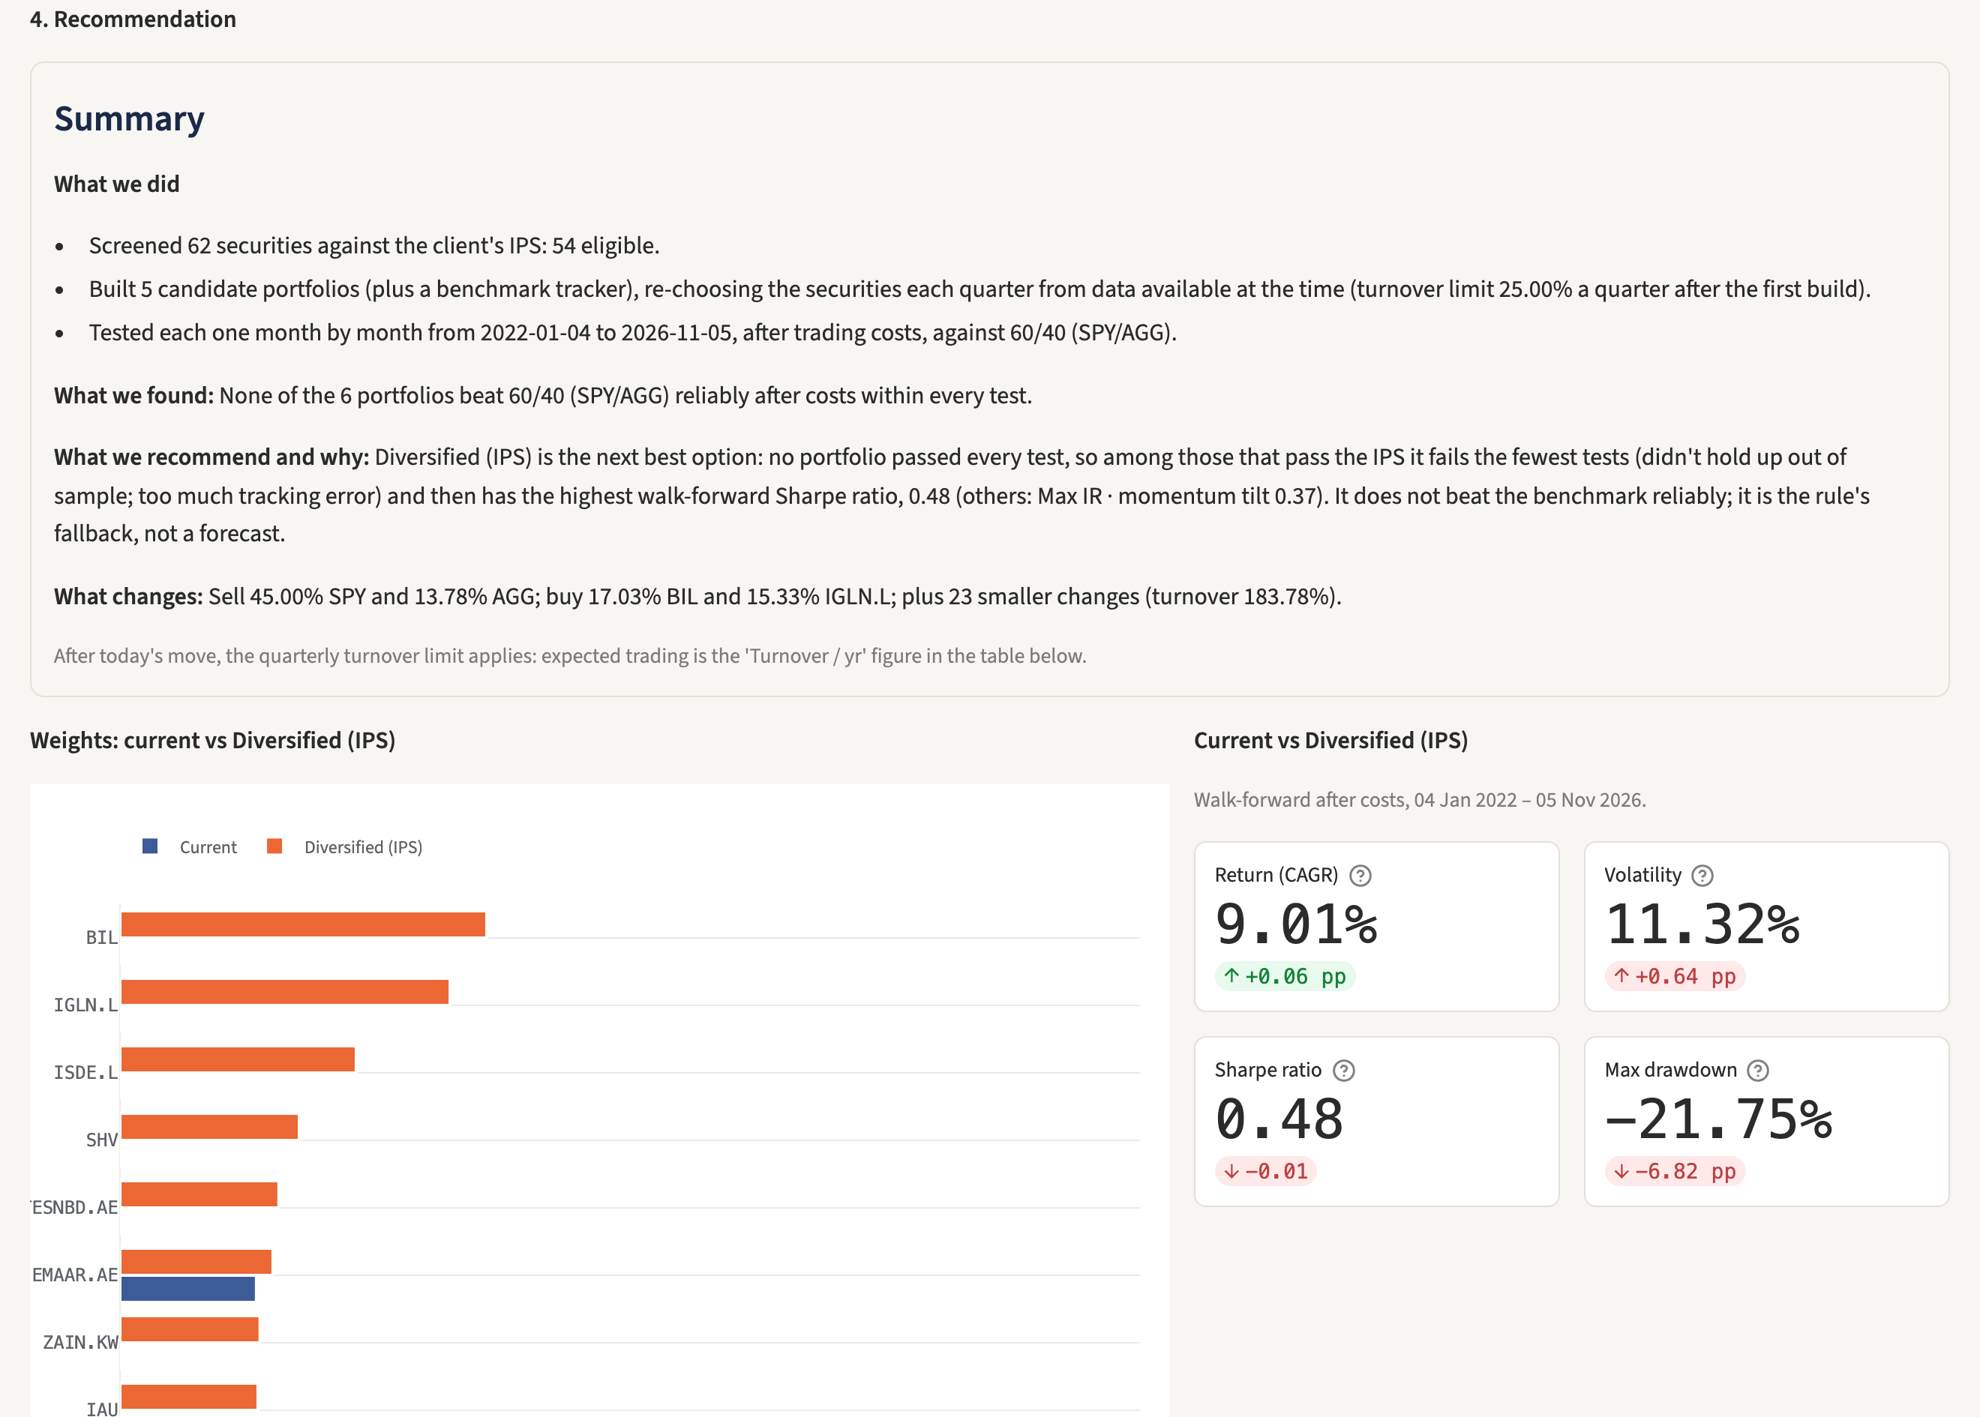
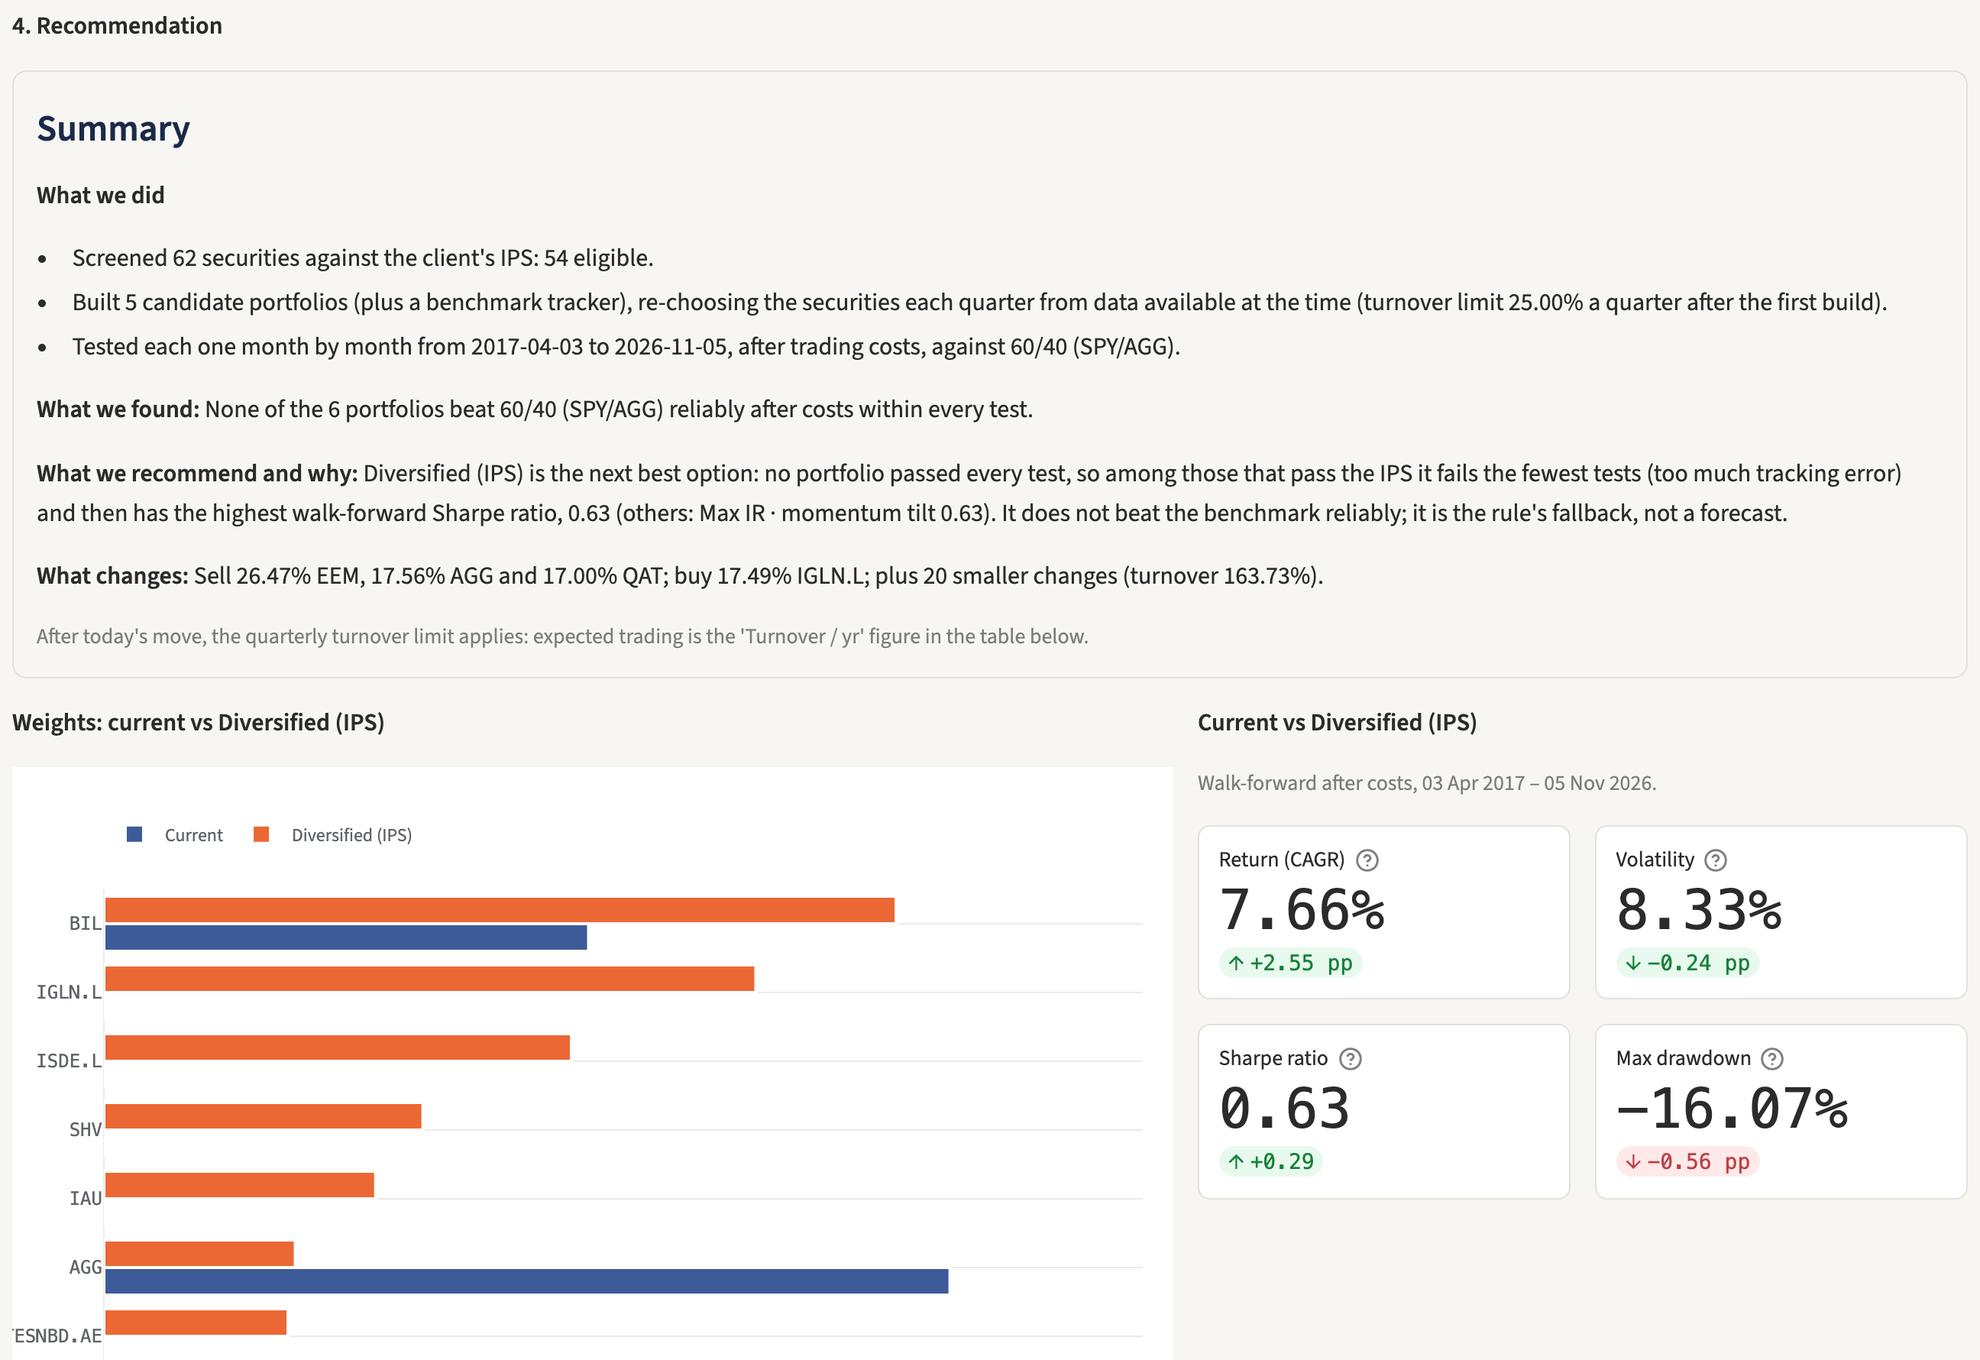
docs: README screenshots from the new demo client (seed 2); step-card navigation; progress log

diff --git a/docs/METHODOLOGY.md b/docs/METHODOLOGY.md
@@ -31,7 +31,7 @@ Do not enter real client data in the public demo.
 | **Regime model** | Predicts whether next month will be stressed; logistic regression, time-series cross-validation with a 21-day gap, monthly walk-forward refits, compared with a simple volatility rule. |
 | **AI analyst** | Claude (Haiku 5.5 by default) with seventeen tools wrapping the engine, including the client's IPS and a `calculate` tool so arithmetic is done in code; portfolio reviews, stress tests, what-ifs and explanations of a recommendation, each memo section paired with charts the AI chooses but code builds, with audit trail and number check. It also turns plain-English goals into a goal and limits the user confirms; it never chooses weights or methods. |
 | **Adviser workflow** | Full fact-find (nine sections, completeness bar), risk questionnaire, IPS (PDF, DRAFT until the fact-find is complete) feeding the optimiser, ten suitability rules including knowledge & experience, fund-domicile check, drift monitor and trade list, client report (PDF). |
-| **Dashboard** | Light, private-bank-style Streamlit app in six steps (1 Client, 2 Portfolio, 3 Analyse, 4 Optimise, 5 Suitability, 6 Report & trades) with a stepper showing each step's status, a sticky header (client, risk score, portfolio value, IPS status, benchmark, *▶ Try a demo client*, *Ask the analyst*, ⚙ Settings) and a *Next* button per step. The holdings drive every step; Analyse holds the benchmark comparison, assets, Monte Carlo and regime views; Optimise holds the frontier and strategy backtests; step 6 holds trades, reports and the AI analyst. Latest data by default, or the fixed sample that reproduces the results below. |
+| **Dashboard** | Light, private-bank-style Streamlit app in six steps (1 Client, 2 Portfolio, 3 Analyse, 4 Optimise, 5 Suitability, 6 Report & trades) with clickable step cards as the navigation (each shows its step's status; there is no separate tab row), a welcome banner on a first visit, a sticky header (client, risk score, portfolio value, IPS status, benchmark, *▶ Try a demo client*, *Ask the analyst*, ⚙ Settings) and a *Next* button per step. The holdings drive every step; Analyse holds the benchmark comparison, assets, Monte Carlo and regime views; Optimise holds the frontier and strategy backtests; step 6 holds trades, reports and the AI analyst. Latest data by default, or the fixed sample that reproduces the results below. |
 
 
 ## For a wealth manager: plan, execute, review

diff --git a/README.md b/README.md
@@ -14,19 +14,20 @@ calculation and makes every recommendation; the AI only fills forms and explains
 
 ## Screenshots
 
-All three come from the app's demo client (seed 2, taken before the 8 Nov 2026 demo update, so
-seed 2 now gives a different client): a fictional client, marked DEMO DATA everywhere.
+All three come from the app with **▶ Try a demo client** (seed 2, 8 Nov 2026): a fictional
+client whose portfolio fits their IPS, marked DEMO DATA everywhere.
 
 **Build a portfolio for me:** a plain-English summary first (what we did, what we found, what we
 recommend and why, what changes), then current against recommended on four measures, and each
-candidate's status with a one-line reason.
+candidate's status with a one-line reason. Here no build beats 60/40 reliably, so the rule's
+fallback, Diversified (IPS), is shown as the next best option, not as a forecast.
 
 ![Build mode: recommendation and walk-forward results against the benchmark](docs/screenshots/build-result.png)
 
-**Improve my current portfolio:** the current portfolio breaks the IPS concentration limit, so the
-rule recommends the best method that passes every rule. By default the move stays within the 30%
-turnover limit; the adviser can choose a full restructure instead, shown with its turnover and
-estimated cost.
+**Improve my current portfolio:** Max Sharpe beat the current portfolio's walk-forward Sharpe
+ratio after costs by 0.19 (0.52 against 0.33), with lower volatility and a shallower largest
+fall, so the rule recommends it. The move stays within the 30% turnover limit; the adviser can
+choose a full restructure instead, shown with its turnover and estimated cost.
 
 ![Improve mode: recommendation box and walk-forward results after costs](docs/screenshots/optimise-recommendation.png)
 

diff --git a/docs/PROGRESS.md b/docs/PROGRESS.md
@@ -727,3 +727,20 @@ days; the work itself was done in a series of sessions.
 - **Learned:** a demo is a claim about the product; if it breaks its own rules, the product
   looks broken. Test the generator against the rules, not against itself.
 - **Status:** 1025 tests: 1024 pass locally with my key (including 4 live API tests); the real-install test runs in CI.
+
+## 2026-11-08 — Step cards are the navigation; README screenshots re-shot
+- **Checked first:** the AI intake was already gone and *▶ Try a demo client* was the primary
+  button with the welcome banner. The step cards were still display-only above a duplicate row
+  of six tabs.
+- **Built by Claude Code:** each step card now opens its step (a full-size button over the card
+  sets the step, as the Next buttons already did); the top-level tab row is hidden, so the cards
+  are the only step navigation. Optimise and Report & trades got page titles, since the tab
+  label used to name them. Checked in headless Chrome with real mouse clicks: no tab row
+  visible, the active card and the page content follow each click.
+- **Screenshots** re-shot from the new demo client, seed 2: Build (no build beats 60/40 reliably;
+  Diversified (IPS) is the next best fallback), Improve (Max Sharpe, Sharpe 0.52 against 0.33,
+  within the 30% turnover limit) and page 3 of the client report PDF.
+- **Noticed, not changed:** the report's swap note says "sell IEF" while the turnover-limited
+  move only trims IEF (7.31% to 4.97%); the wording should say the full sale happens in the full
+  restructure.
+- **Status:** 1025 tests: 1024 pass locally; the real-install test runs in CI.

diff --git a/.claude/CLAUDE.md b/.claude/CLAUDE.md
@@ -69,8 +69,8 @@ it switched to build + explain mode, which has been used since:
   in cash-like holdings (`client.cash_like_holdings`: the "Cash & short-term" group, config
   `cash_like`, or volatility <= 3%). They are a hard optimiser set and checked on the trade list.
 - **UI:** light private-bank theme (`.streamlit/config.toml`) and one plotly template
-  (`gpl_light`); show figures with `formatting.plot` (theme=None). Six-step workflow with a stepper
-  and sticky header (`app/layout.py`). Benchmarks are grey dashed reference series. No sidebar:
+  (`gpl_light`); show figures with `formatting.plot` (theme=None). Six-step workflow: the step cards
+  are the navigation (the top-level tab row is hidden), with a sticky header (`app/layout.py`). Benchmarks are grey dashed reference series. No sidebar:
   settings live in the top-bar popover.
 
 ## Code style
